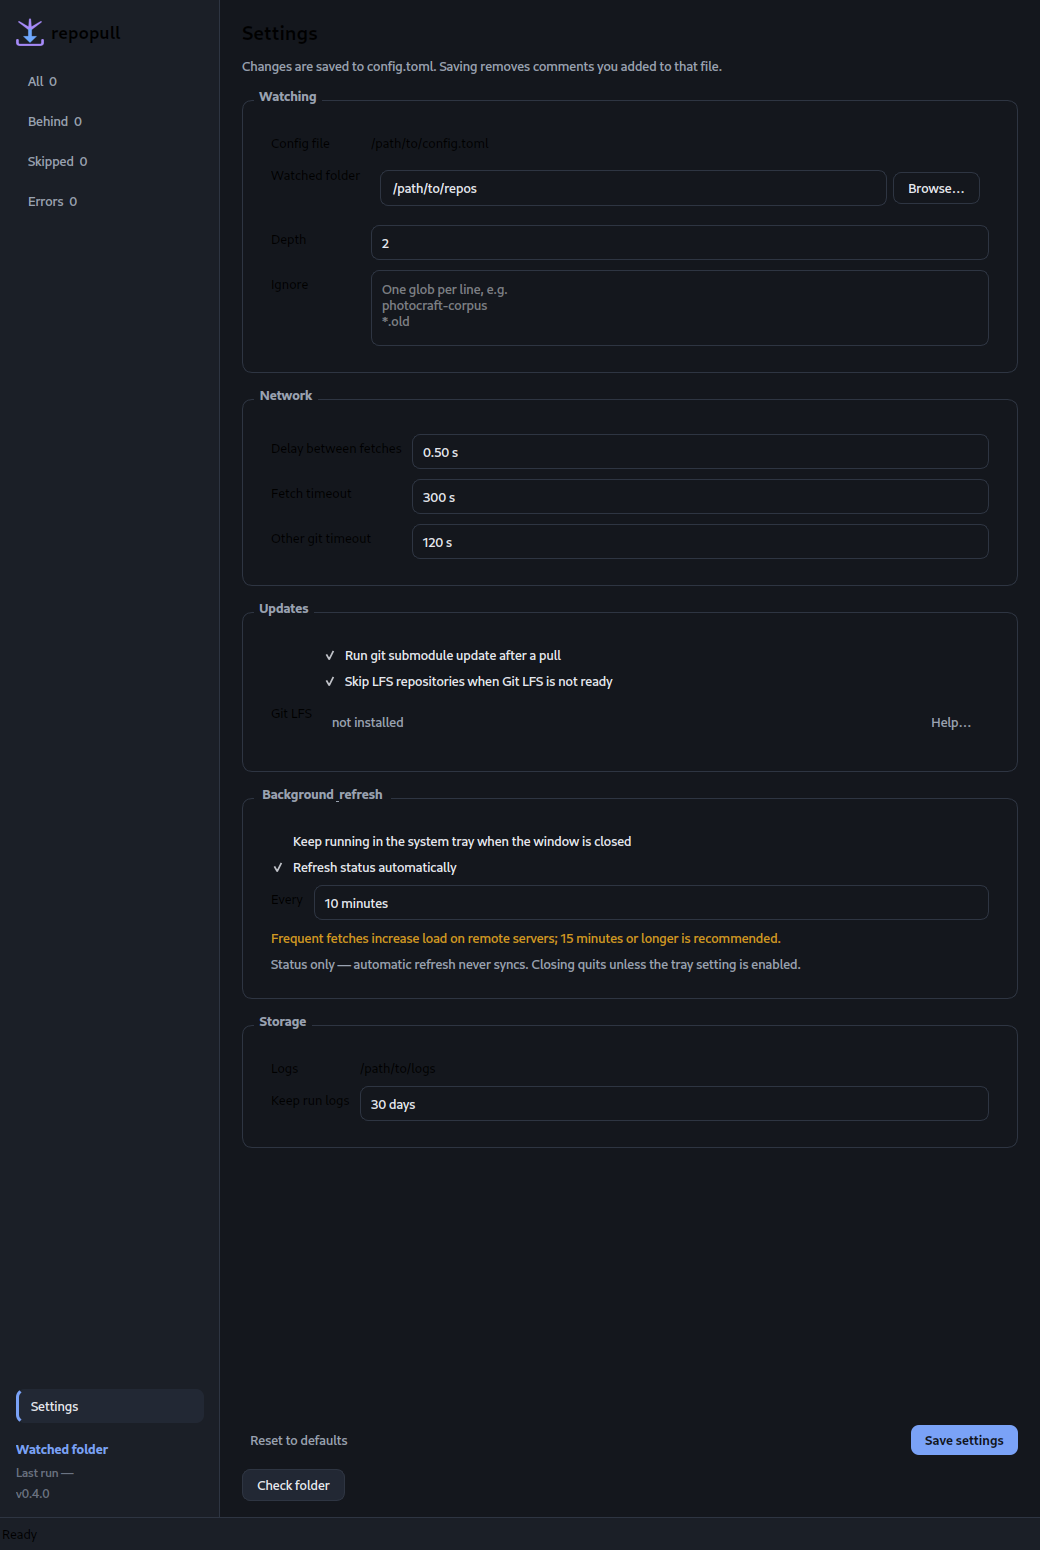
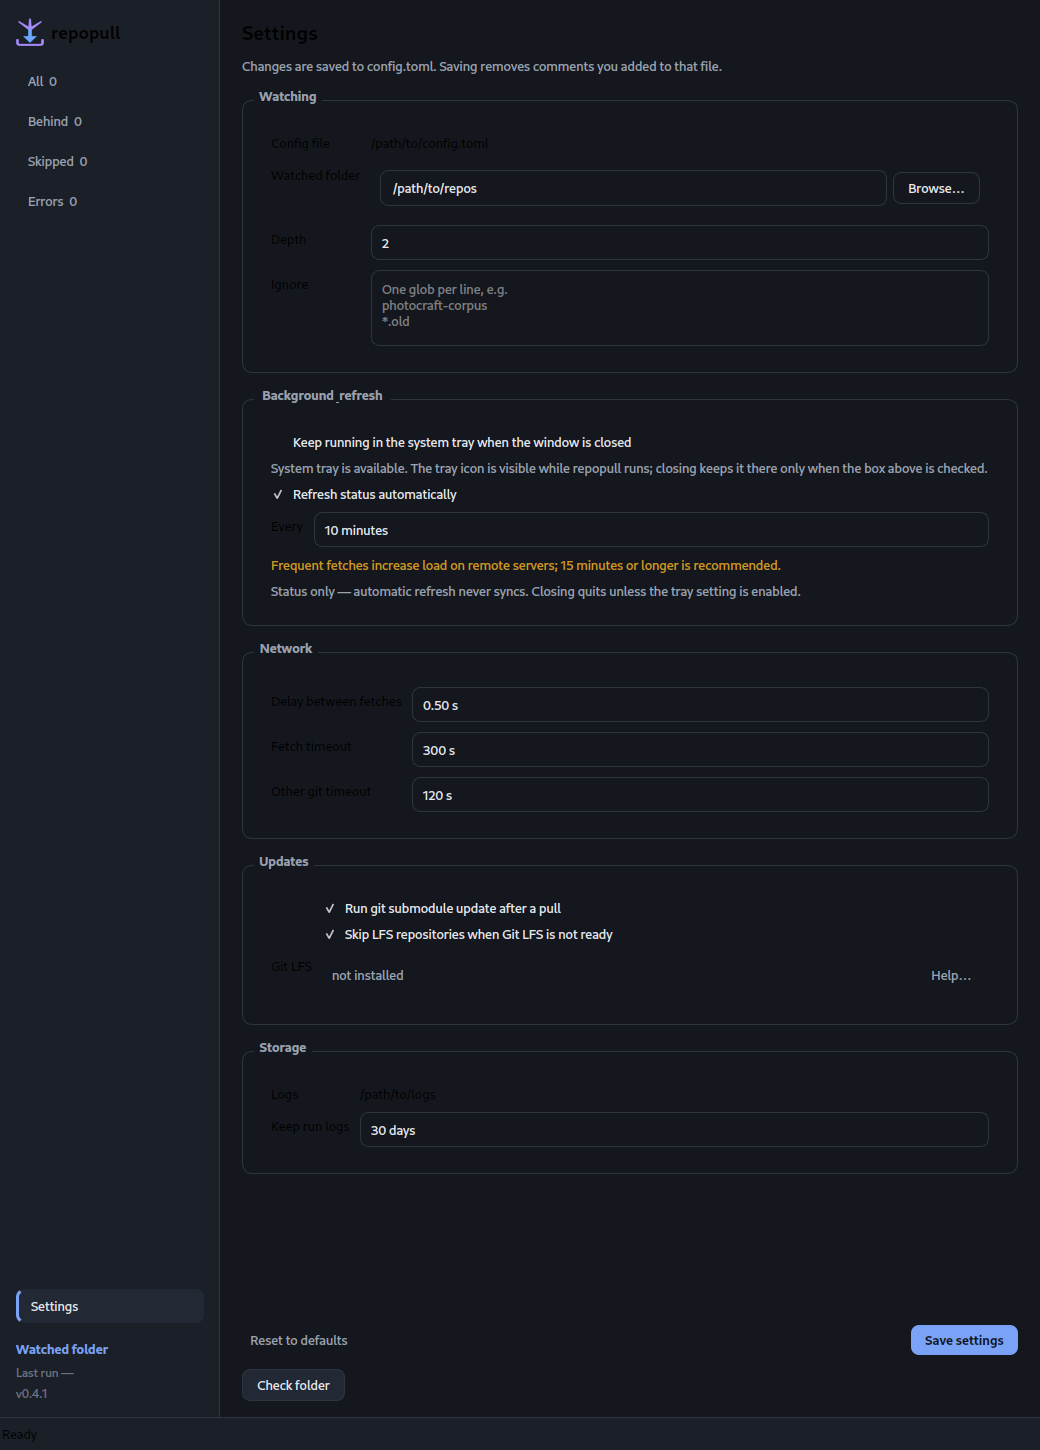
Fix tray visibility and settings discoverability (0.4.1)

diff --git a/src/repopull/gui/window.py b/src/repopull/gui/window.py
@@ -449,6 +449,65 @@ class MainWindow(QMainWindow):
         watch_form.addRow("Ignore", self.settings_ignore)
         content_layout.addWidget(watching)
 
+        background = QGroupBox("Background & refresh")
+        background_form = QFormLayout(background)
+        background_form.setContentsMargins(16, 18, 16, 14)
+        background_form.setSpacing(10)
+
+        self.settings_background = QCheckBox(
+            "Keep running in the system tray when the window is closed"
+        )
+        self.settings_background.setEnabled(self._tray_available)
+        if not self._tray_available:
+            self.settings_background.setToolTip(
+                "The system tray is not available in this session."
+            )
+        background_form.addRow(self.settings_background)
+
+        self.settings_tray_status = QLabel(
+            "System tray is available. The tray icon is visible while repopull "
+            "runs; closing keeps it there only when the box above is checked."
+            if self._tray_available
+            else "System tray is not available in this session; background mode "
+            "is disabled and closing quits."
+        )
+        self.settings_tray_status.setObjectName("Muted")
+        self.settings_tray_status.setWordWrap(True)
+        background_form.addRow(self.settings_tray_status)
+
+        self.settings_auto = QCheckBox("Refresh status automatically")
+        background_form.addRow(self.settings_auto)
+
+        self.settings_auto_minutes = QSpinBox()
+        self.settings_auto_minutes.setRange(5, 1440)
+        self.settings_auto_minutes.setSuffix(" minutes")
+        self.settings_auto_minutes.setValue(15)
+        self.settings_auto_minutes.setEnabled(False)
+        background_form.addRow("Every", self.settings_auto_minutes)
+
+        self.settings_auto_warning = QLabel(
+            "Frequent fetches increase load on remote servers; "
+            "15 minutes or longer is recommended."
+        )
+        self.settings_auto_warning.setWordWrap(True)
+        self.settings_auto_warning.setStyleSheet("color: #d29922;")
+        self.settings_auto_warning.setVisible(False)
+        background_form.addRow(self.settings_auto_warning)
+
+        auto_note = QLabel(
+            "Status only — automatic refresh never syncs. "
+            "Closing quits unless the tray setting is enabled."
+        )
+        auto_note.setWordWrap(True)
+        auto_note.setObjectName("Muted")
+        background_form.addRow(auto_note)
+
+        self.settings_auto.toggled.connect(self._on_auto_toggled)
+        self.settings_auto_minutes.valueChanged.connect(
+            self._on_auto_minutes_changed
+        )
+        content_layout.addWidget(background)
+
         network = QGroupBox("Network")
         network_form = QFormLayout(network)
         network_form.setContentsMargins(16, 18, 16, 14)
@@ -504,53 +563,6 @@ class MainWindow(QMainWindow):
 
         content_layout.addWidget(updates)
 
-        background = QGroupBox("Background & refresh")
-        background_form = QFormLayout(background)
-        background_form.setContentsMargins(16, 18, 16, 14)
-        background_form.setSpacing(10)
-
-        self.settings_background = QCheckBox(
-            "Keep running in the system tray when the window is closed"
-        )
-        self.settings_background.setEnabled(self._tray_available)
-        if not self._tray_available:
-            self.settings_background.setToolTip(
-                "The system tray is not available in this session."
-            )
-        background_form.addRow(self.settings_background)
-
-        self.settings_auto = QCheckBox("Refresh status automatically")
-        background_form.addRow(self.settings_auto)
-
-        self.settings_auto_minutes = QSpinBox()
-        self.settings_auto_minutes.setRange(5, 1440)
-        self.settings_auto_minutes.setSuffix(" minutes")
-        self.settings_auto_minutes.setValue(15)
-        self.settings_auto_minutes.setEnabled(False)
-        background_form.addRow("Every", self.settings_auto_minutes)
-
-        self.settings_auto_warning = QLabel(
-            "Frequent fetches increase load on remote servers; "
-            "15 minutes or longer is recommended."
-        )
-        self.settings_auto_warning.setWordWrap(True)
-        self.settings_auto_warning.setStyleSheet("color: #d29922;")
-        self.settings_auto_warning.setVisible(False)
-        background_form.addRow(self.settings_auto_warning)
-
-        auto_note = QLabel(
-            "Status only — automatic refresh never syncs. "
-            "Closing quits unless the tray setting is enabled."
-        )
-        auto_note.setWordWrap(True)
-        auto_note.setObjectName("Muted")
-        background_form.addRow(auto_note)
-
-        self.settings_auto.toggled.connect(self._on_auto_toggled)
-        self.settings_auto_minutes.valueChanged.connect(
-            self._on_auto_minutes_changed
-        )
-        content_layout.addWidget(background)
 
         storage = QGroupBox("Storage")
         storage_form = QFormLayout(storage)
@@ -1089,7 +1101,7 @@ class MainWindow(QMainWindow):
             self._quit_application()
 
     def _apply_background_mode(self) -> None:
-        if not self._tray_available or not self.config.background_mode:
+        if not self._tray_available:
             if self.tray is not None:
                 self.tray.hide()
             return

diff --git a/tests/test_gui.py b/tests/test_gui.py
@@ -306,6 +306,18 @@ if HAVE_PYSIDE:
                 self.assertTrue(window.tray.icon().isMask())
                 window.request_quit()
 
+        def test_tray_is_visible_without_background_mode(self) -> None:
+            with tempfile.TemporaryDirectory() as tmp:
+                base = Path(tmp)
+                root = self._tree(base)
+                window = MainWindow(self._config(base, root))
+                window._tray_available = True
+                window._apply_background_mode()
+
+                self.assertIsNotNone(window.tray)
+                self.assertFalse(window.config.background_mode)
+                window.request_quit()
+
         def test_close_to_tray_hides_instead_of_quitting(self) -> None:
             with tempfile.TemporaryDirectory() as tmp:
                 base = Path(tmp)

diff --git a/src/repopull/gui/app.py b/src/repopull/gui/app.py
@@ -54,6 +54,10 @@ def main(argv: Sequence[str] | None = None) -> int:
 
     if args.smoke_test or args.screenshot is not None:
         os.environ.setdefault("QT_QPA_PLATFORM", "offscreen")
+    elif sys.platform.startswith("linux") and os.environ.get("WAYLAND_DISPLAY"):
+        # Qt defaults to XCB on some images; XEmbed tray icons are not shown by
+        # KDE Plasma's Wayland tray. Prefer Wayland, then fall back to XCB.
+        os.environ.setdefault("QT_QPA_PLATFORM", "wayland;xcb")
 
     # Imported after QT_QPA_PLATFORM is set, so the offscreen platform is used.
     from PySide6.QtWidgets import QApplication

diff --git a/src/repopull/__init__.py b/src/repopull/__init__.py
@@ -1,3 +1,3 @@
 """repopull — keep local mirrors of watched remote repositories current."""
 
-__version__ = "0.4.0"
+__version__ = "0.4.1"

diff --git a/README.md b/README.md
@@ -12,7 +12,7 @@ never pushes, commits, branches, tags, or opens a pull request.
 
 ## Status
 
-**Current release: 0.4.0.** Tests and mypy pass; the latest AppImage is built
+**Current release: 0.4.1.** Tests and mypy pass; the latest AppImage is built
 from this checkout. No release blockers. Remaining test-coverage work is in the
 [test audit](docs/test-falsifiability.md); the 16 px icon keeps its branches at
 the cost of softness (see [branding](docs/branding.md)).
@@ -117,13 +117,16 @@ after the subcommand.
 The GUI reads the same `config.toml`, repositories, and `logs/latest.json` as the
 CLI. It shows one row per repo with a status chip, updates each row as the sweep
 progresses, supports Refresh status, Sync all, a detail page, per-repo Force sync,
-and grouped settings (watching, network, updates, background & refresh,
+and grouped settings (watching, background & refresh, network, updates,
 storage). See [docs/gui.md](docs/gui.md).
 
 Settings → Background & refresh can keep repopull in the system tray and
 refresh status automatically. Auto-refresh is off by default, status-only,
 and never runs more often than every 5 minutes; 15 minutes or longer is
 recommended.
+
+The tray icon is visible while repopull runs; the checkbox controls whether
+closing hides to it.
 
 It needs PySide6. The launcher uses the system `python3` when PySide6 is
 importable, otherwise it lets `uv` provide it for that run.
@@ -132,14 +135,14 @@ importable, otherwise it lets `uv` provide it for that run.
 
 ```bash
 make appimage
-./dist/repopull-0.4.0-x86_64.AppImage
+./dist/repopull-0.4.1-x86_64.AppImage
 ```
 
 The image bundles Python 3.13, PySide6 and repopull. Run the CLI from it with
 `--cli`:
 
 ```bash
-./dist/repopull-0.4.0-x86_64.AppImage --cli status
+./dist/repopull-0.4.1-x86_64.AppImage --cli status
 ```
 
 It keeps `config.toml` and logs in `~/.config/repopull` (or `$REPOPULL_HOME`).
@@ -238,7 +241,7 @@ make test        # unit and integration tests, offline, uses temp repos
 make typecheck   # mypy --strict
 make check       # both
 make gui         # launch the optional PySide6 interface
-make appimage    # build dist/repopull-0.4.0-x86_64.AppImage
+make appimage    # build dist/repopull-0.4.1-x86_64.AppImage
 make bump        # increment the patch version
 make release     # check, bump the patch, build the AppImage
 ```

diff --git a/docs/gui.md b/docs/gui.md
@@ -44,12 +44,14 @@ the library then fills. Nothing is hard-coded into the app.
   tree, Git LFS, submodules, remote URL, and the last result.
 - **Force sync…** on the detail page resets one repository after a confirmation.
 - **Settings**: grouped into Watching (folder, depth, ignore globs), Network
-  (delay, timeouts), Updates (submodules, LFS), Background & refresh (tray,
-  automatic status refresh), and Storage (logs, retention). Saving writes
+  Background & refresh (tray, automatic status refresh), Network (delay,
+  timeouts), Updates (submodules, LFS), and Storage (logs, retention). Saving writes
   `config.toml`; **Reset to defaults** restores the shipped values first. The
   logs path is resolved at runtime from `$XDG_CONFIG_HOME` (or `~/.config`).
   **Keep run logs** sets `log_retention_days`; `0` keeps every run log.
-  **Keep running in the system tray** is close-to-tray; normal minimize stays in
+  **Keep running in the system tray** is close-to-tray; the tray icon is visible
+  whenever the app runs, and the checkbox controls whether closing hides to it.
+  Normal minimize stays in
   the taskbar. **Refresh status automatically** is status-only, off by default,
   has a 5-minute hard floor, and shows an orange warning below 15 minutes. A
   manual status or sync resets the next automatic run.

diff --git a/docs/packaging.md b/docs/packaging.md
@@ -1,6 +1,6 @@
 # Packaging as an AppImage
 
-`make appimage` builds `dist/repopull-0.4.0-x86_64.AppImage`: a single file with
+`make appimage` builds `dist/repopull-0.4.1-x86_64.AppImage`: a single file with
 a bundled Python 3.13, PySide6 and `repopull`. It follows the same approach as
 AppGlider — `python-appimage` stages the AppDir, then a pinned `appimagetool`
 packs it.
@@ -25,16 +25,16 @@ stages the AppDir, replaces `AppRun`, packs the image, and runs two smoke tests
 (GUI offscreen and `--cli version`). Output:
 
 ```
-dist/repopull-0.4.0-x86_64.AppImage
+dist/repopull-0.4.1-x86_64.AppImage
 dist/SHA256SUMS.txt
 ```
 
 ## Run
 
 ```bash
-./dist/repopull-0.4.0-x86_64.AppImage                  # GUI
-./dist/repopull-0.4.0-x86_64.AppImage --cli status
-./dist/repopull-0.4.0-x86_64.AppImage --cli sync --only 'craft-*'
+./dist/repopull-0.4.1-x86_64.AppImage                  # GUI
+./dist/repopull-0.4.1-x86_64.AppImage --cli status
+./dist/repopull-0.4.1-x86_64.AppImage --cli sync --only 'craft-*'
 ```
 
 If FUSE is unavailable, add `--appimage-extract-and-run`.

diff --git a/docs/design-decisions.md b/docs/design-decisions.md
@@ -297,9 +297,10 @@ the lock simply postpones the next auto attempt. See
 process that quits immediately on close cannot keep a schedule; a process that
 never quits needs a reliable exit and a visible control.
 
-**Decision:** `background_mode = false` by default. When enabled, closing hides
-to a symbolic system-tray icon; the tray has Open, Refresh status now,
-Pause/Resume automatic refresh, and Quit. Quit cancels the active run, waits for
+**Decision:** `background_mode = false` by default. The symbolic tray icon is
+created whenever the app runs and the tray is available; `background_mode`
+controls only whether closing hides to it. The tray has Open, Refresh status
+now, Pause/Resume automatic refresh, and Quit. Quit cancels the active run, waits for
 the current repository, releases the locks, and then exits. The GUI is
 single-instance. With background mode off, closing quits.
 

diff --git a/docs/auto-refresh-plan.md b/docs/auto-refresh-plan.md
@@ -1,6 +1,6 @@
 # Auto-refresh and system tray plan (0.4.0)
 
-**Status:** implemented in 0.4.0; kept as the plan record.
+**Status:** implemented in 0.4.0; 0.4.1 follow-up for tray visibility and Wayland; kept as the plan record.
 **Audience:** maintainers.
 **Purpose:** durable working spec for the resident auto-refresh and tray work.
 When the feature ships, fold the lasting facts into
@@ -123,6 +123,8 @@ Tray:
 - Phase 4 next.
 - 2026-11-05: Phase 4 complete — 114 tests, CI green, AppImage 0.4.0,
   private release published.
+- 2026-11-05: 0.4.1 follow-up — Background & refresh moved up, tray icon
+  visible while running, Wayland fallback for KDE.
 
 ## Phases
 

diff --git a/docs/test-falsifiability.md b/docs/test-falsifiability.md
@@ -7,8 +7,8 @@ parser and GUI row mapping. Raw artifacts live in `_temp/` (gitignored).
 
 This audit covered the 0.2.3 suite of 80 tests. Four icon tests, a docs-version
 sync test, three documentation-system checks, five log-retention tests, one
-lock-durability test, sixteen auto-refresh/config tests, and four tray/settings
-tests were added later; the current suite is 114 at 0.4.0.
+lock-durability test, sixteen auto-refresh/config tests, and five tray/settings
+tests were added later; the current suite is 115 at 0.4.1.
 
 **Question:** for each test, is there a defect it would catch?
 

diff --git a/CHANGELOG.md b/CHANGELOG.md
@@ -1,5 +1,14 @@
 # Changelog
 
+## 0.4.1 — 2026-11-05
+
+- Moved Background & refresh above Network and added a tray-availability
+  line, so close-to-tray is visible without deep scrolling.
+- The tray icon is now created whenever the app runs (when the tray is
+  available); background mode only controls whether closing hides to it.
+- Prefer Qt Wayland with an XCB fallback on Wayland sessions, so KDE
+  Plasma's Wayland tray can show the icon.
+
 ## 0.4.0 — 2026-11-05
 
 - Added opt-in resident mode: closing can hide to a symbolic system-tray
